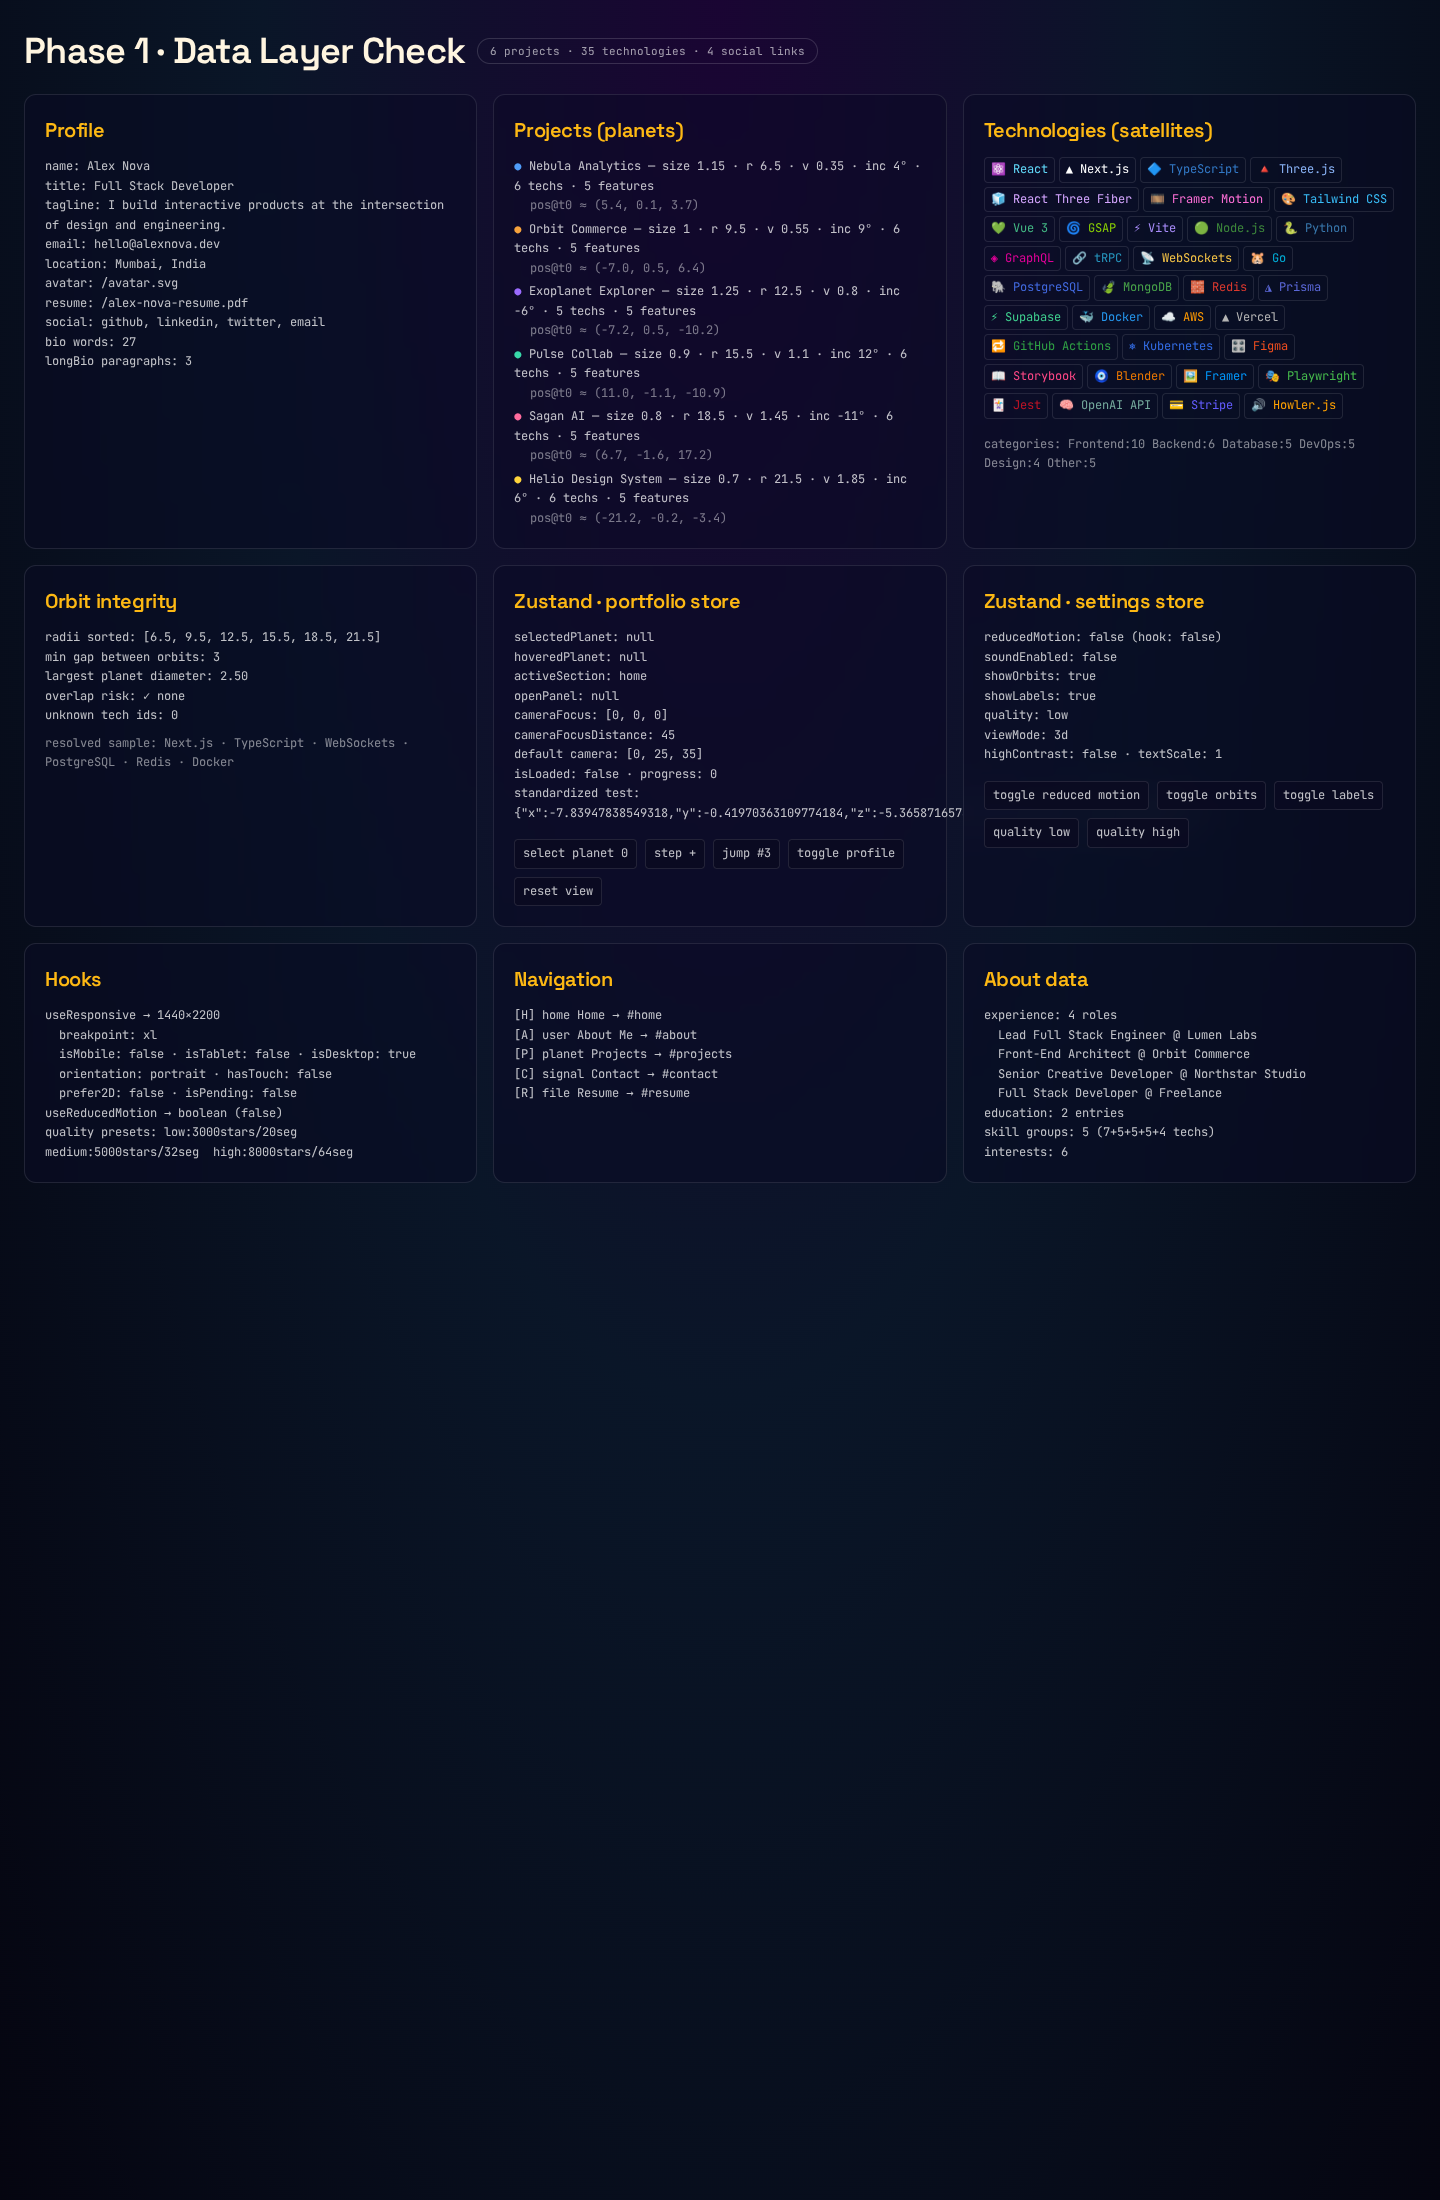
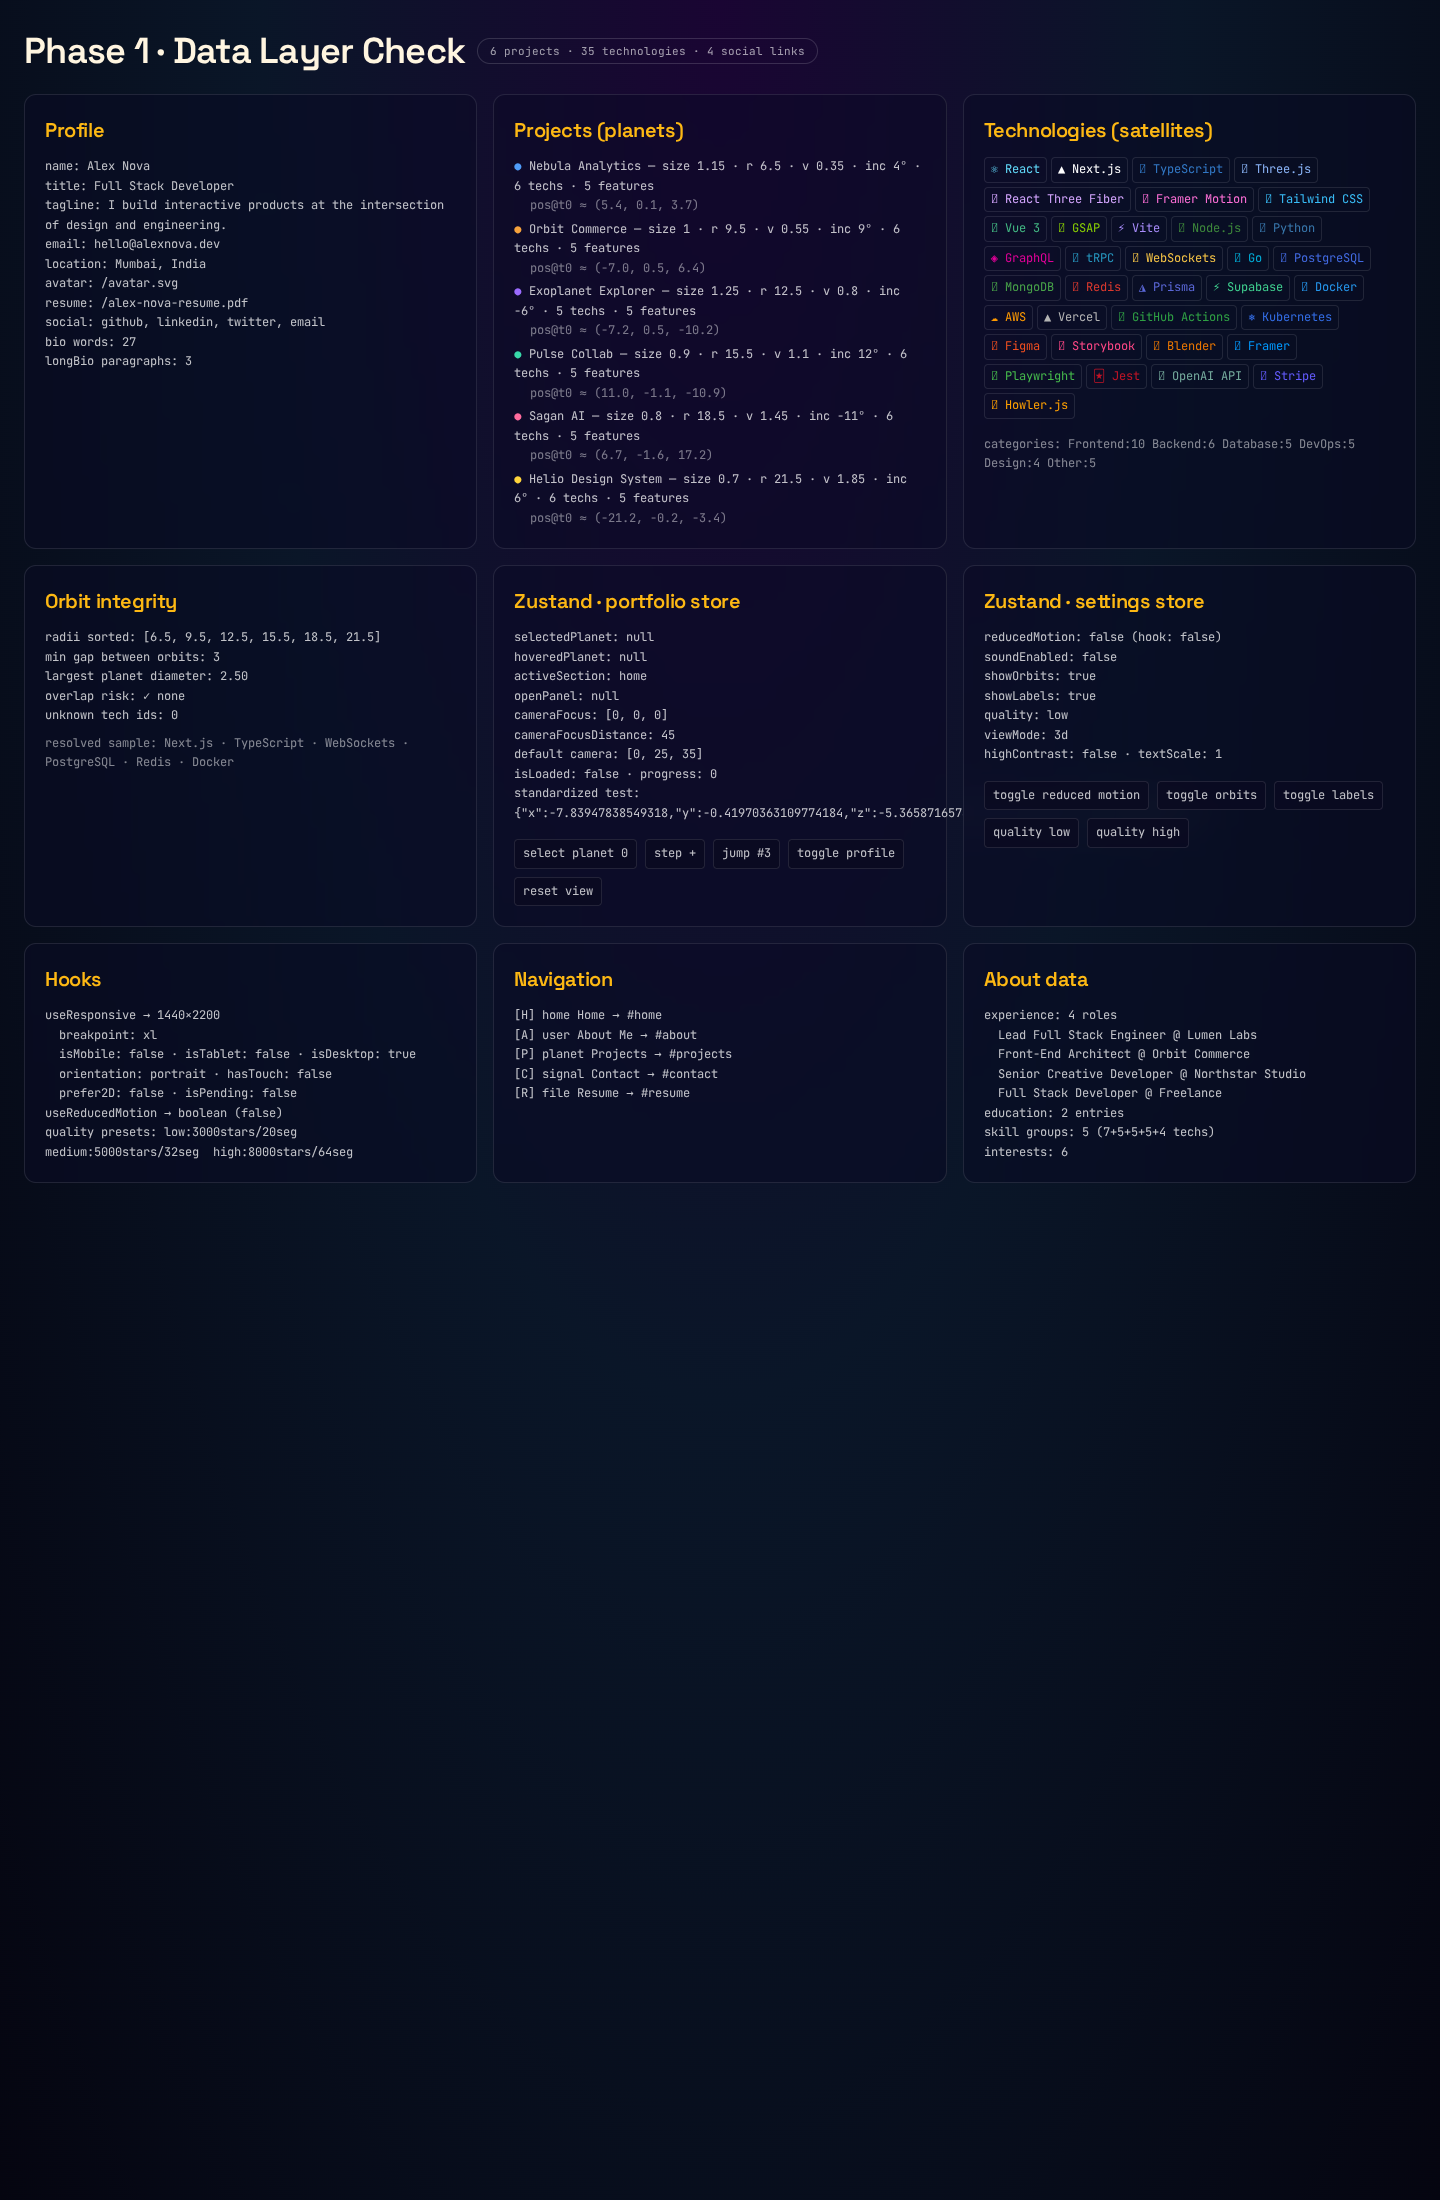
verify(phase 0-1): re-run full suite green; harden env + html background
- paint --cosmic-black on <html> so overscroll can't flash white canvas
- honour optional CHROME_PATH in shots/persist-check/playwright config so the
  suites run where Playwright's browser download is blocked (no-op elsewhere)
- PROGRESS.md: 2nd-pass evidence table + bug notes

Changed region(s): [[0.6875, 0.0618, 0.9375, 0.1855]]

diff --git a/playwright.config.ts b/playwright.config.ts
@@ -23,7 +23,11 @@ export default defineConfig({
     video: "off",
     // Software WebGL needs a moment; keep animations running for visual tests.
     launchOptions: {
+      // `CHROME_PATH` allows running where Playwright's browser download is
+      // blocked; leave unset to use Playwright's own bundled Chromium.
+      executablePath: process.env.CHROME_PATH || undefined,
       args: [
+        "--disable-dev-shm-usage",
         "--no-sandbox",
         "--enable-unsafe-swiftshader",
         "--use-gl=angle",

diff --git a/src/app/globals.css b/src/app/globals.css
@@ -56,6 +56,9 @@
   html {
     color-scheme: dark;
     -webkit-text-size-adjust: 100%;
+    /* Painted on <html> (not just <body>) so overscroll / rubber-banding and
+       areas beyond the document height never flash the default white canvas. */
+    background-color: var(--cosmic-black);
   }
 
   html,

diff --git a/PROGRESS.md b/PROGRESS.md
@@ -54,6 +54,19 @@ every testing criterion has been executed and verified.
 
 ---
 
+### Phase 0 & 1 re-verified (2nd pass, full re-run from a clean `npm ci`)
+
+| Check | Result |
+|---|---|
+| `tsc --noEmit` | ✅ clean |
+| `next lint` | ✅ No ESLint warnings or errors |
+| `jest` | ✅ 47/47 across 3 suites |
+| `verify:data` | ✅ 7th planet + technology flow through; orbits non-overlapping (min gap 3 vs 2.25 required); restored to 6 |
+| `verify:stores` | ✅ 17 live browser assertions — defaults, all actions, persistence across reload, `useResponsive` at xs/md/xl — *page errors: none* |
+| `npm run build` | ✅ 6/6 static pages, 87.4 kB First Load JS |
+| `npm run dev` | ✅ ready in 1.6 s, `/` → 200, `/dev/data-check` → 200, no runtime errors |
+| Screenshots | ✅ `phase0-scaffold.png`, `phase1-data-layer.png` regenerated — **no console or page errors** |
+
 ## Bugs found and fixed during verification
 
 1. **Persisted settings never rehydrated (real bug).**
@@ -79,7 +92,23 @@ every testing criterion has been executed and verified.
    The orbit-overlap assertion now checks every radius pair
    (`|r₁−r₂| > size₁+size₂`), which is the actual non-overlap condition.
 
-5. **`next.config.mjs` `allowedDevOrigins` deliberately left unset.**
+5. **`<html>` had no background (flash-of-white risk).**
+   Only `<body>` painted `--cosmic-black`, so rubber-band overscroll or any
+   region outside the document box could expose the default white canvas.
+   Fixed in `globals.css` by painting the background on `html` too. Verified by
+   sampling real screenshot pixels (every edge sample is dark: `#070e1d`,
+   `#050510`) — an apparent white edge strip in review was a *viewer* scaling
+   artifact, not a page bug.
+
+6. **Test harness couldn't get a browser (environment, not app).**
+   `cdn.playwright.dev` is unreachable from this sandbox, so `npx playwright
+   install` fails. Solved outside the repo (`/home/user/browser-tools`) with a
+   Chromium 153 build from the npm registry plus bundled AL2023 libs and
+   SwiftShader — giving real WebGL 2.0. `scripts/shots.mjs`,
+   `scripts/persist-check.mjs` and `playwright.config.ts` now honour an optional
+   `CHROME_PATH`, which is a no-op wherever Playwright's own browser exists.
+
+7. **`next.config.mjs` `allowedDevOrigins` deliberately left unset.**
    Next 14.2 *warns* on cross-origin dev requests when unset but *blocks with
    403* as soon as it is defined. The preview is proxied through a domain we
    don't control, so warn-only is the safe choice. Verified with a Host-header
